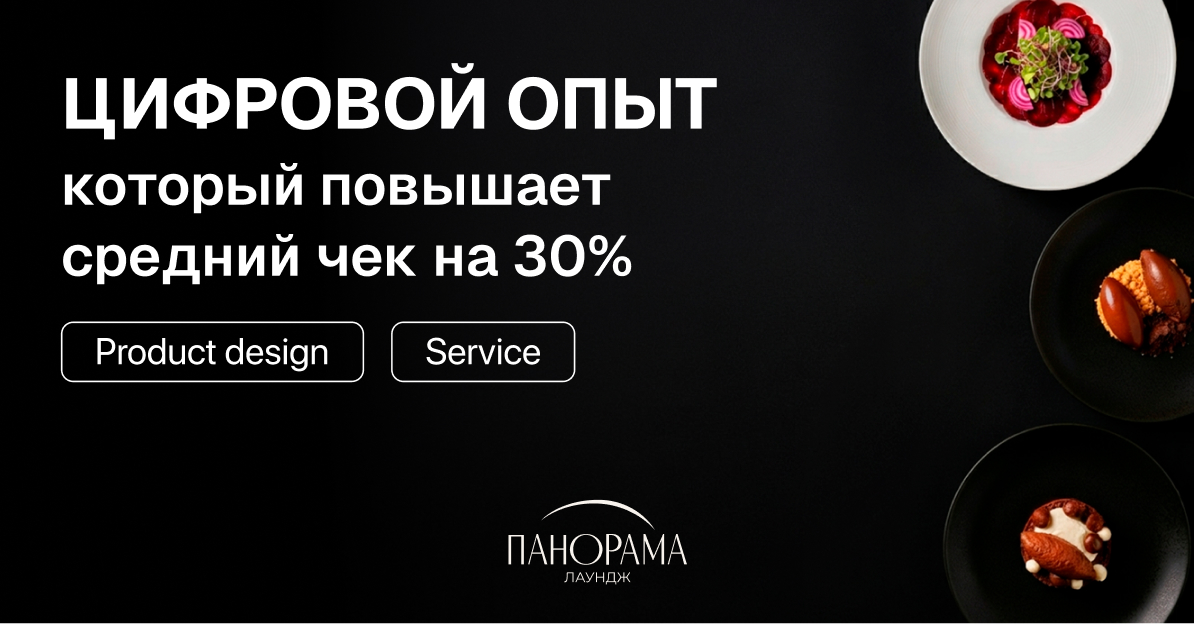
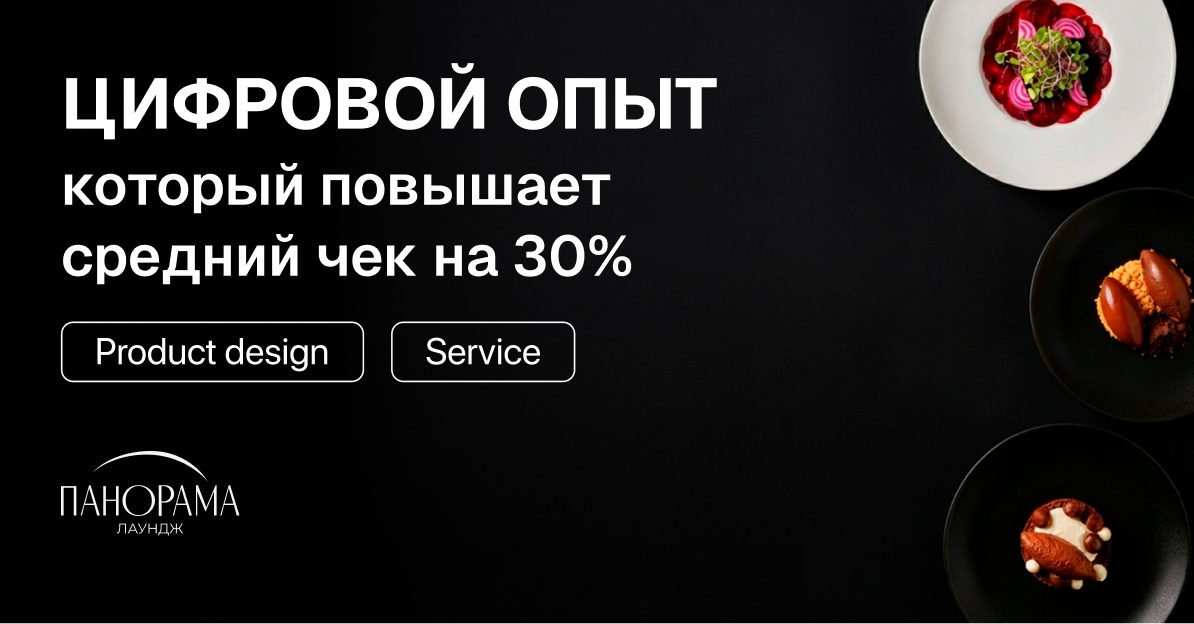
ыыыыыыыыыы

Changed region(s): [[0.031, 0.7003, 0.2169, 0.8526], [0.4028, 0.8526, 0.5888, 0.9439], [0.4648, 0.7917, 0.5268, 0.8221]]

diff --git a/script.js b/script.js
@@ -916,7 +916,7 @@ const PROJECTS = [
     cardDesc: { ru: 'Цифровое меню для ресторана премиум-класса', en: 'Digital menu for a premium restaurant' },
     bannerColor: '#8B5E3C',
     cardImg: 'assets/панорама.jpg',
-    bannerImg: 'assets/Панорама_BIG.png',
+    bannerImg: 'assets/Панорама_BIG.jpg',
     images: [],
 
     context: 'Panorama Lounge — ресторан премиум-класса в Доброграде. Несмотря на высокий уровень сервиса, опыт знакомства с меню оставался фрагментированным: гости изучали бумажное меню уже за столом, не могли заранее познакомиться с ассортиментом, а ресторан не имел возможности адаптировать предложения под спрос или анализировать интерес к отдельным позициям.\n\nПроект предполагал создание цифрового меню, которое сопровождало бы пользователя на всём пути — от знакомства с рестораном до оформления заказа.',